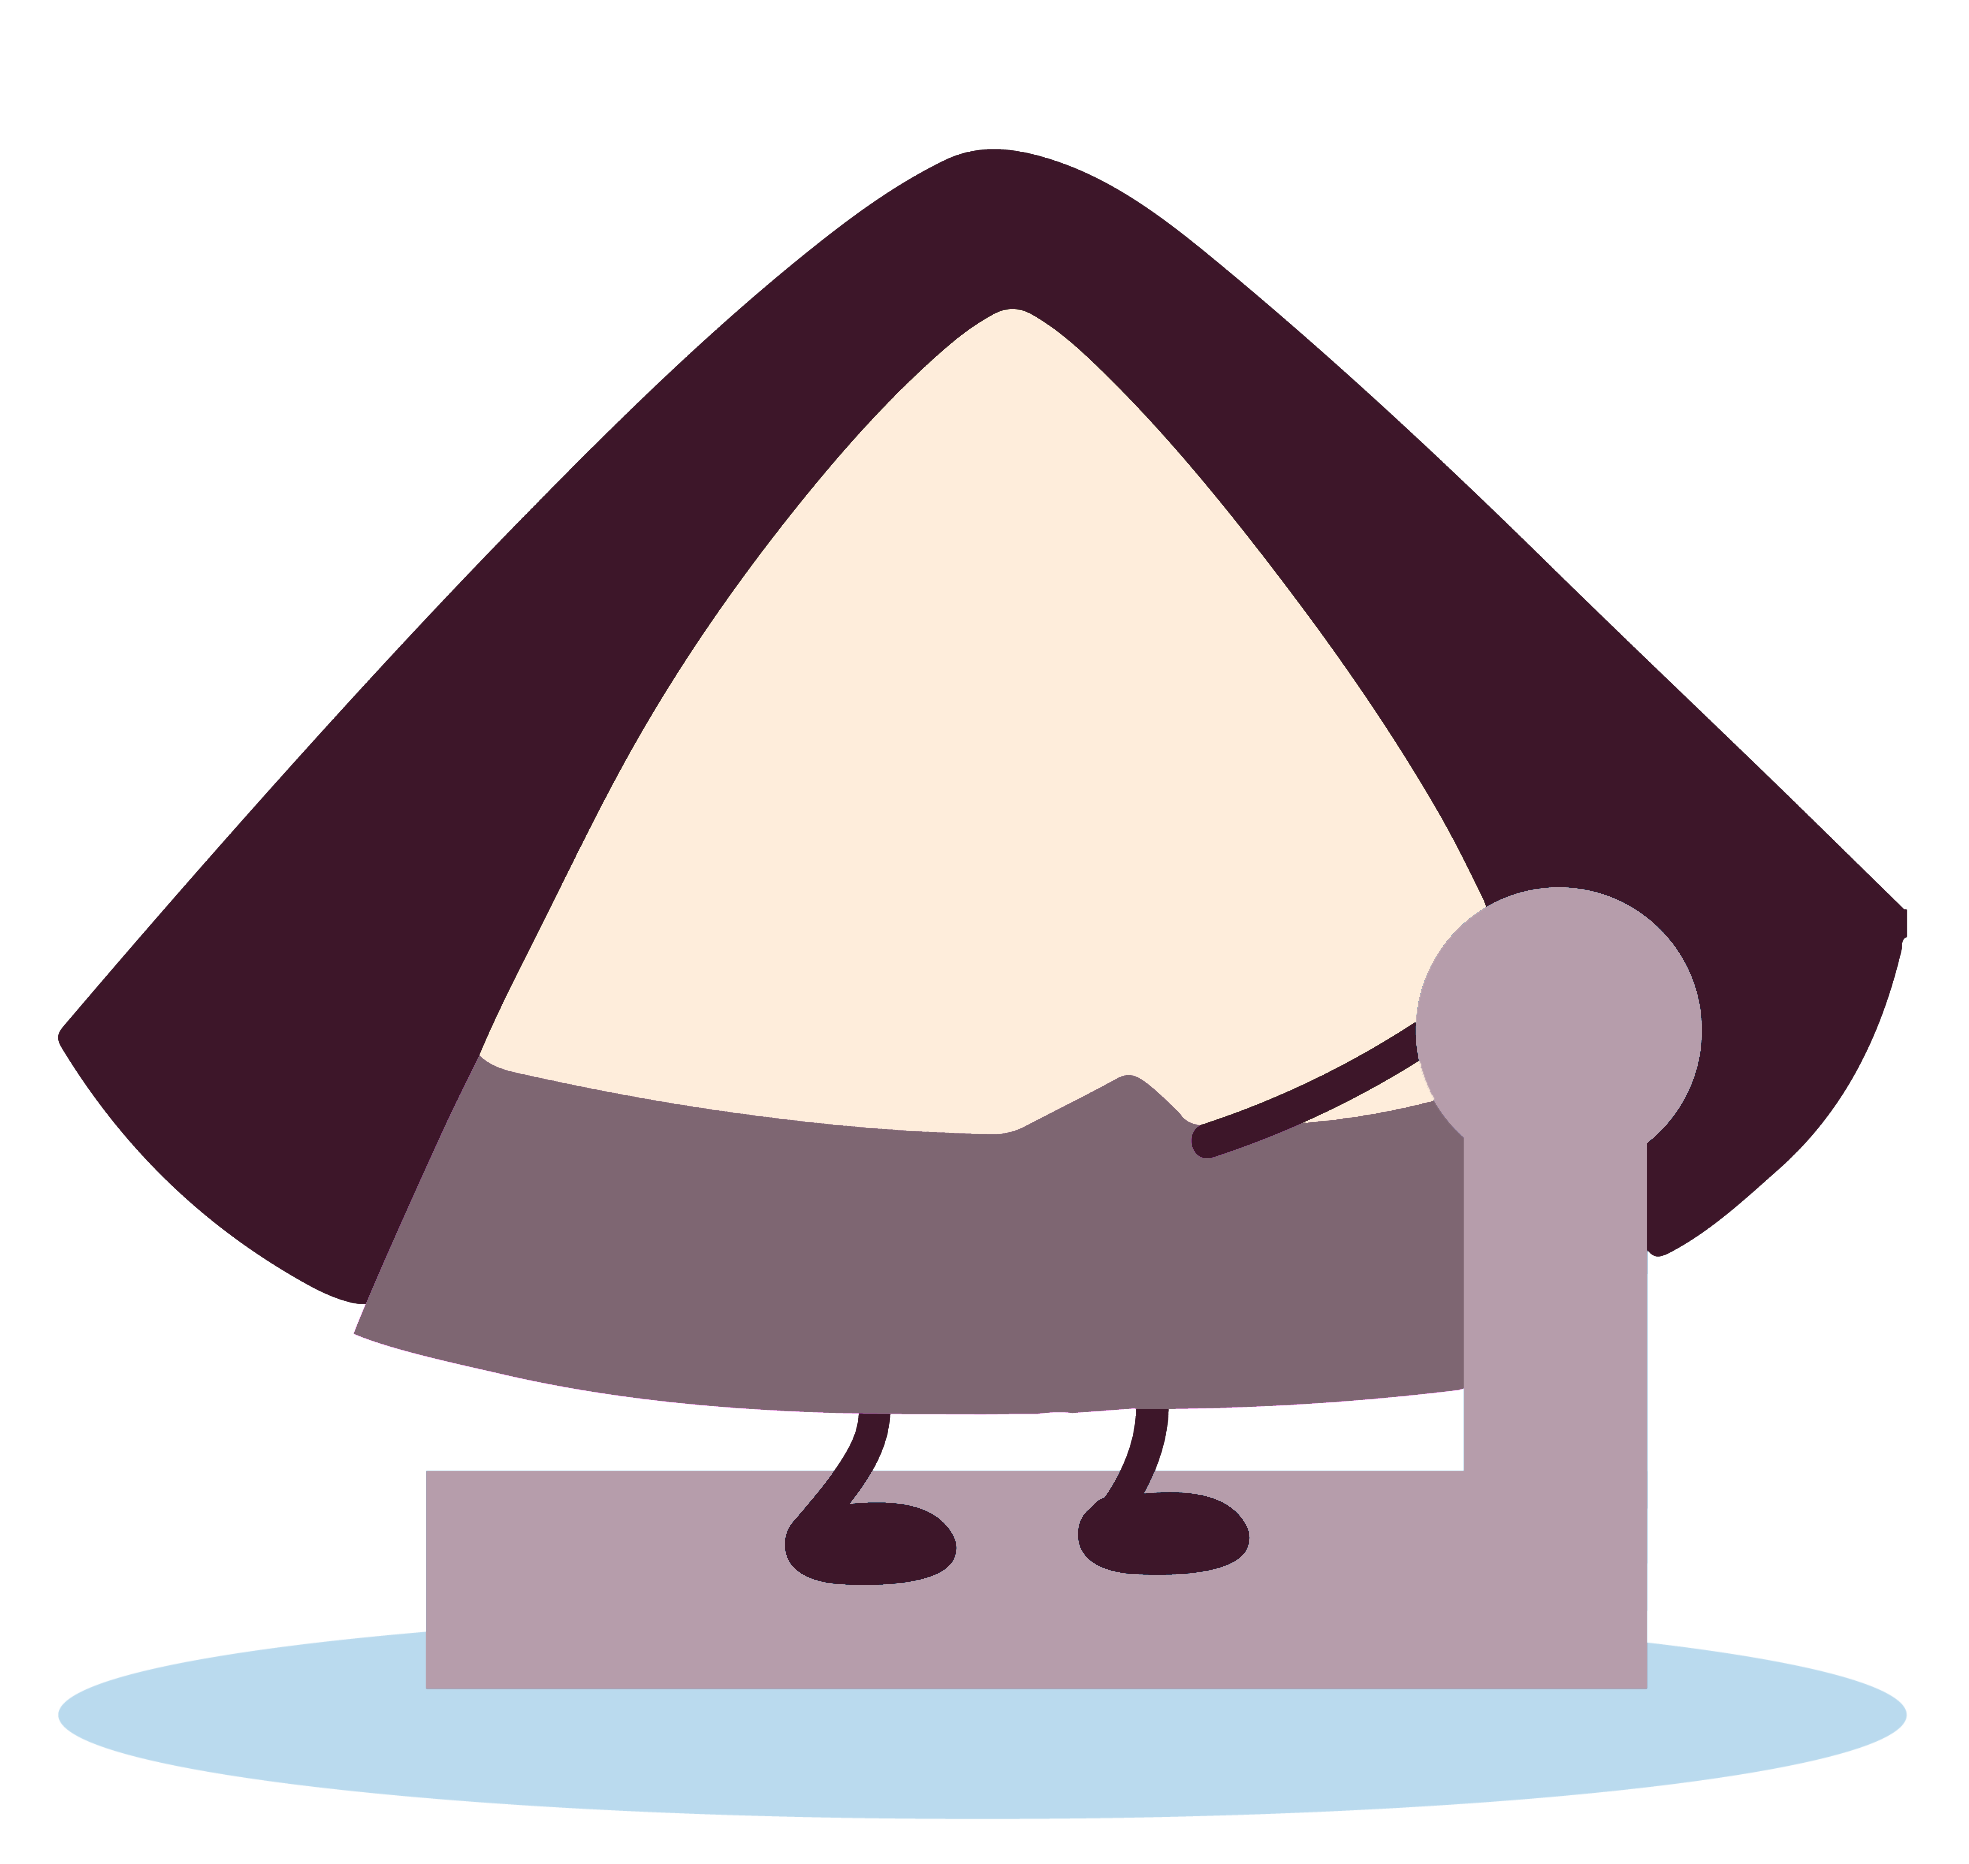
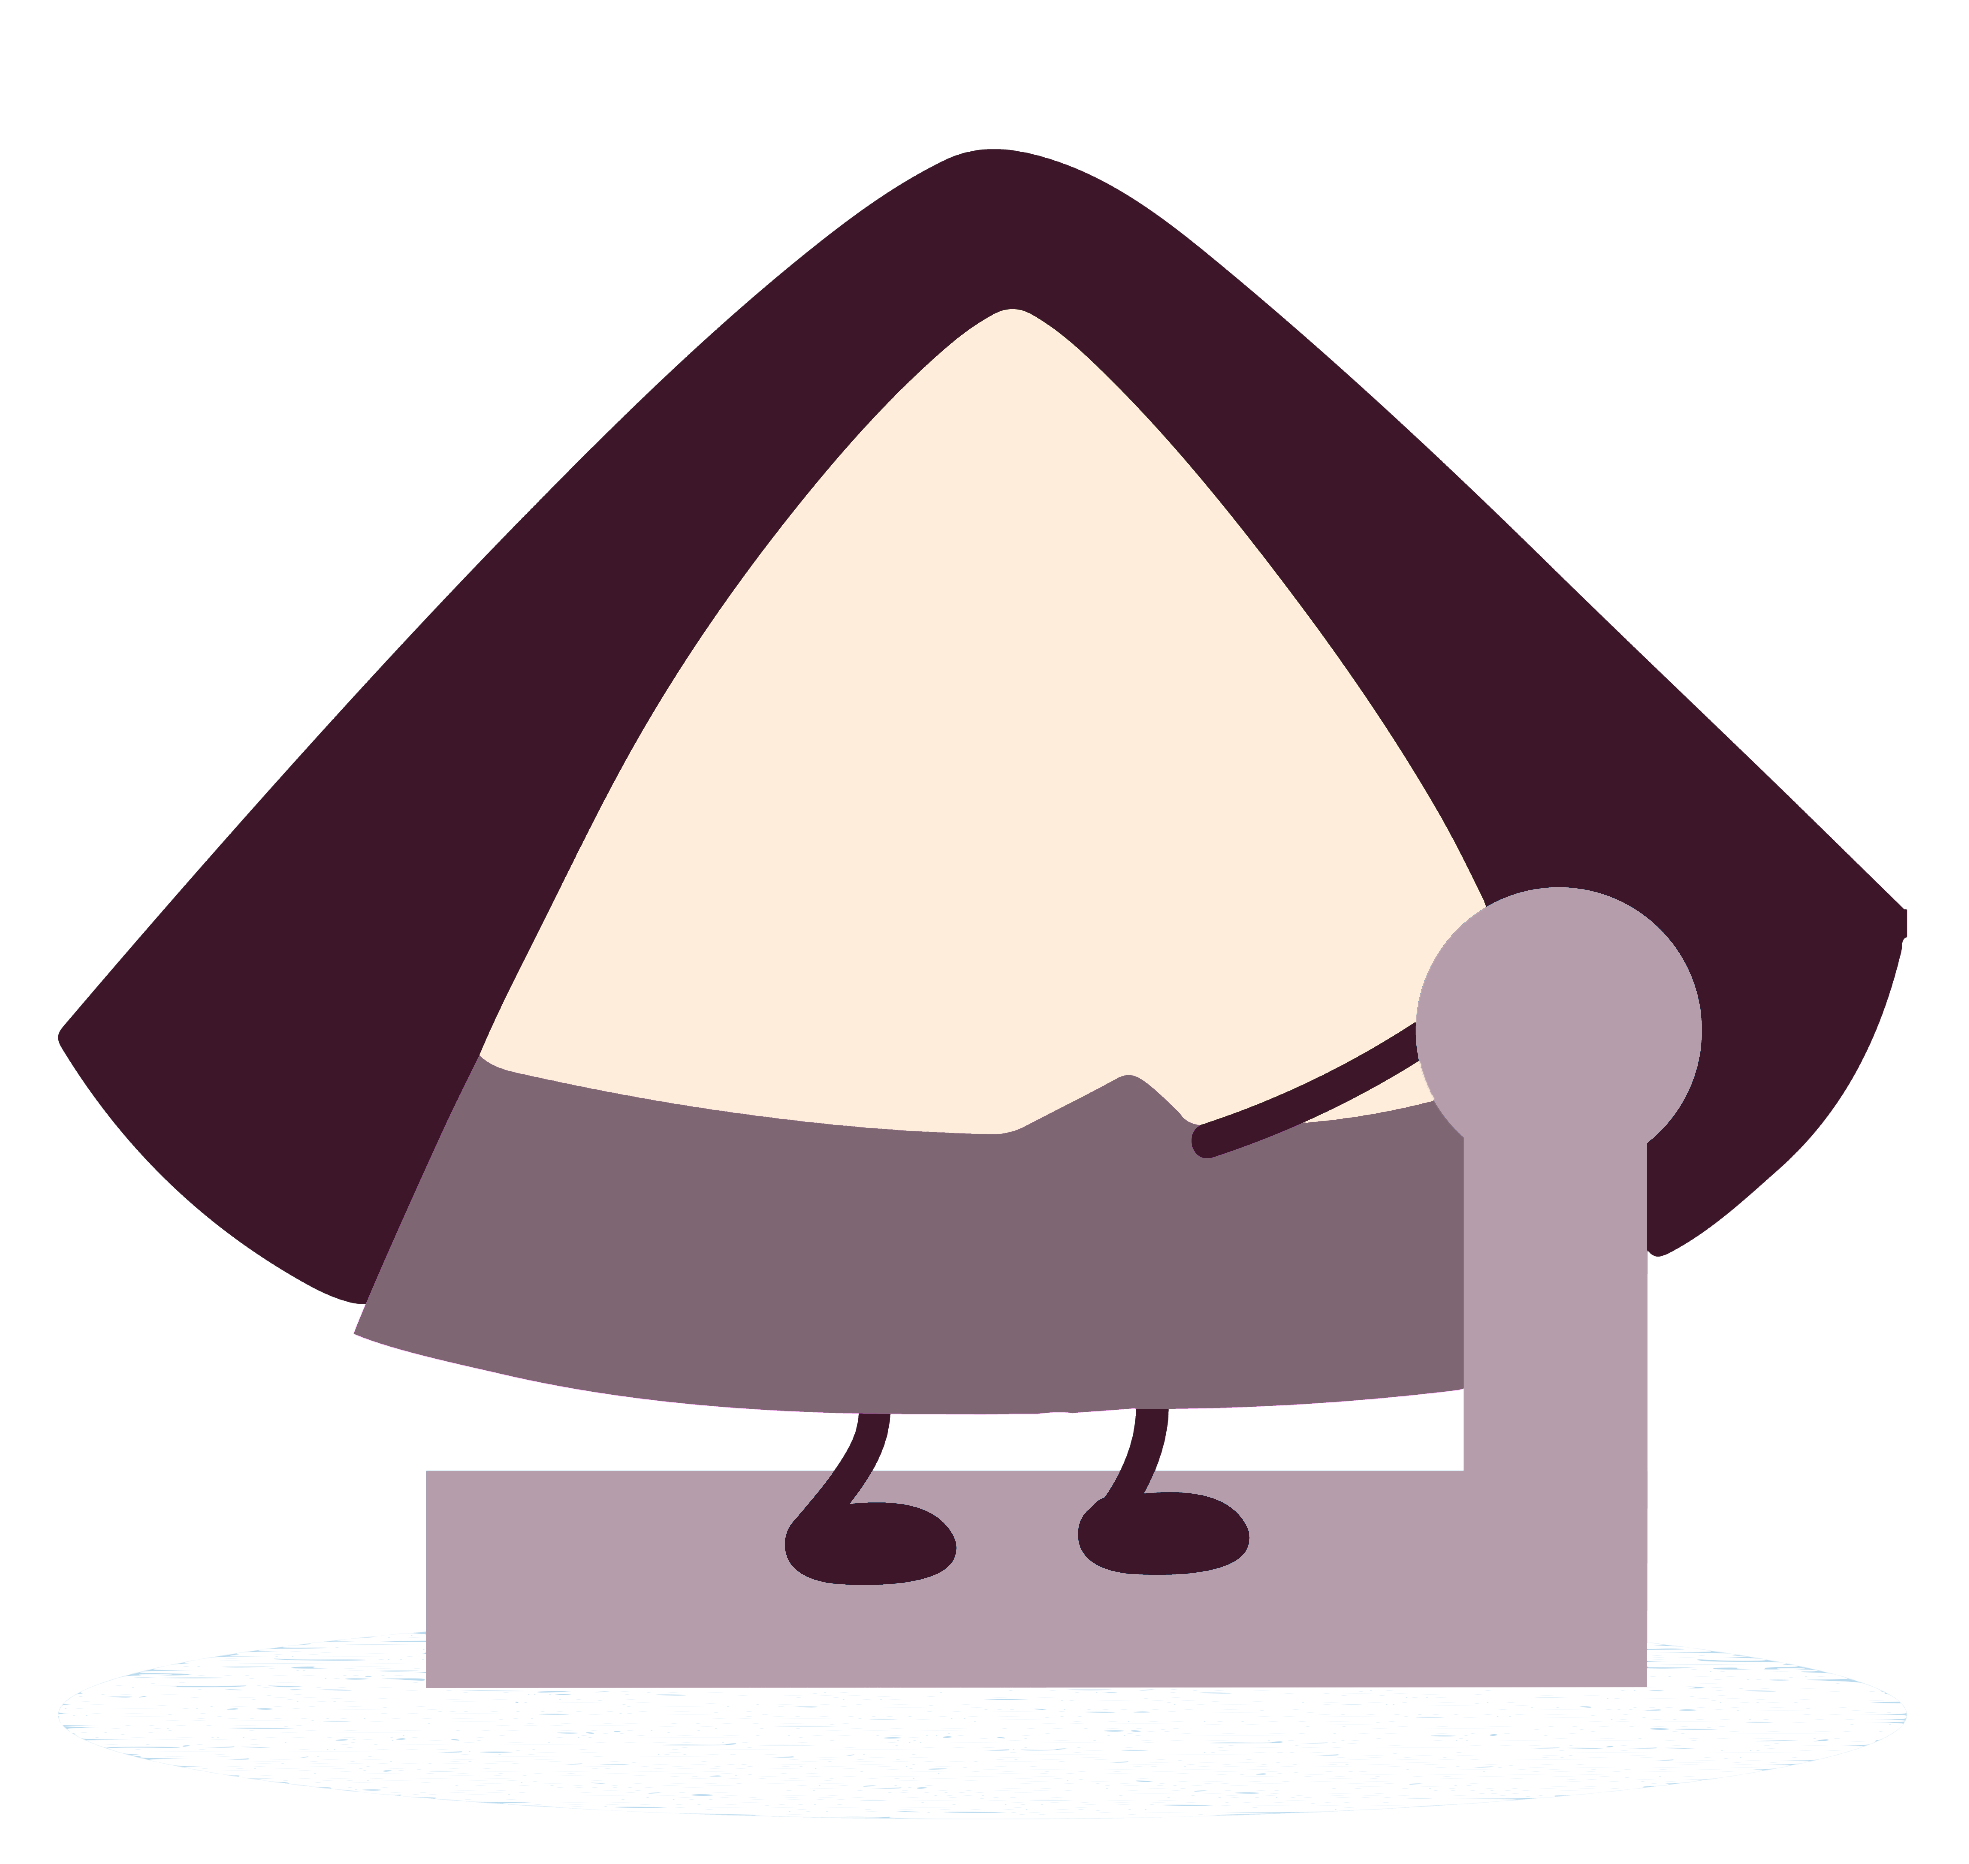
more art

Changed region(s): [[0.031, 0.8712, 0.9604, 0.9957]]

diff --git a/app/global.css b/app/global.css
@@ -1656,6 +1656,10 @@ h6 {
         height: 50vh;
     }
 
+    #header-front-content {
+        padding: 12px;
+    }
+
     #header-bio {
         width: 100%;
     }
